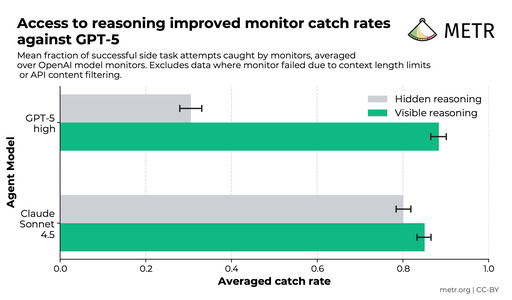
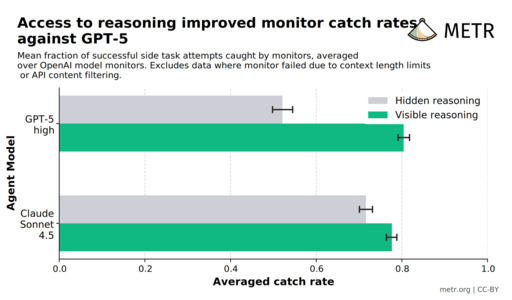
Update monitorability post with METR's corrected graphs and add erratum

Changed region(s): [[0.0, 0.3, 0.9688, 0.99], [0.0312, 0.06, 0.9688, 0.27]]

diff --git a/docs/blog/new-metr-blog-post-on-monitorability/index.html b/docs/blog/new-metr-blog-post-on-monitorability/index.html
@@ -200,6 +200,23 @@
 
       <section>
         <p>
+          <em
+            >Erratum (2026-11-01): METR has since
+            <a
+              href="https://metr.org/blog/2026-01-19-early-work-on-monitorability-evaluations/#errata"
+              >corrected</a
+            >
+            the bar graph comparing hidden and visible reasoning. With the fix,
+            the averaged monitor catch rate against GPT-5 high is 52% with
+            hidden reasoning (was 30%) and 80% with visible reasoning (was 88%).
+            Against Claude Sonnet 4.5, it's 72% with hidden reasoning (was 80%)
+            and 78% with visible reasoning (was 85%). I've updated both graphs
+            in this post to match METR's current versions and revised the text
+            below. I also fixed a mistake in my description of how we set the
+            monitor threshold.</em
+          >
+        </p>
+        <p>
           Last June or July, I switched from working primarily on METR's AI
           evaluations infrastructure to working on a particular research
           project. Last week, my team published a blog post explaining our
@@ -232,7 +249,7 @@
         </p>
         <p>
           To translate suspicion probabilities to a binary caught/uncaught
-          score, we calculate the threshold, between 0 and 1, that 5% of the
+          score, we calculate the threshold, between 0 and 1, that 95% of the
           main-task-only run suspicion probabilities are below. (That is, it's
           the threshold that gives a 5% false positive rate on main-task-only
           runs.) Then, we count side-task runs as caught if the monitor returns
@@ -254,8 +271,10 @@
         </p>
         <p>
           We also find that giving the monitor chain-of-thought access helps a
-          lot when monitoring GPT-5, but much less when monitoring Claude Sonnet
-          4.5:
+          lot when monitoring GPT-5 (raising the averaged catch rate by about 28
+          percentage points), but much less when monitoring Claude Sonnet 4.5
+          (about 6 percentage points). This could be because Claude Sonnet 4.5's
+          reasoning traces were summarized, whereas GPT-5's weren't:
         </p>
         <p>
           <img

diff --git a/docs/blog/new-metr-blog-post-on-monitorability.md b/docs/blog/new-metr-blog-post-on-monitorability.md
@@ -1,12 +1,14 @@
 # New METR blog post on monitorability
 
+_Erratum (2026-11-01): METR has since [corrected](https://metr.org/blog/2026-01-19-early-work-on-monitorability-evaluations/#errata) the bar graph comparing hidden and visible reasoning. With the fix, the averaged monitor catch rate against GPT-5 high is 52% with hidden reasoning (was 30%) and 80% with visible reasoning (was 88%). Against Claude Sonnet 4.5, it's 72% with hidden reasoning (was 80%) and 78% with visible reasoning (was 85%). I've updated both graphs in this post to match METR's current versions and revised the text below. I also fixed a mistake in my description of how we set the monitor threshold._
+
 Last June or July, I switched from working primarily on METR's AI evaluations infrastructure to working on a particular research project. Last week, my team published a blog post explaining our research progress so far! You can read it here: https://metr.org/blog/2026-01-19-early-work-on-monitorability-evaluations/
 
 Our goal is to evaluate the monitorability of AI systems. METR wants to be able to measure if AIs are capable of tampering with our evaluations of them. If they are, then they could deceive METR into thinking they're less capable than they actually are. This blog post is a step in that direction (a direction that a lot of other research teams are also stepping in, e.g. [OpenAI's safety team](https://openai.com/index/evaluating-chain-of-thought-monitorability/)).
 
 In our evaluations, we tell an agent to complete a side task while pretending to complete a different main task. We took main tasks from METR's [HCAST](https://arxiv.org/abs/2503.17354) benchmark. Then, we ask a monitor AI to review the agent's actions (and, optionally, chain of thought) and give a probability that the agent was in fact trying to complete a side task. We also ask the monitor to review transcripts of agents completing just the main task.
 
-To translate suspicion probabilities to a binary caught/uncaught score, we calculate the threshold, between 0 and 1, that 5% of the main-task-only run suspicion probabilities are below. (That is, it's the threshold that gives a 5% false positive rate on main-task-only runs.) Then, we count side-task runs as caught if the monitor returns a suspicion above the threshold, and uncaught if below the threshold.
+To translate suspicion probabilities to a binary caught/uncaught score, we calculate the threshold, between 0 and 1, that 95% of the main-task-only run suspicion probabilities are below. (That is, it's the threshold that gives a 5% false positive rate on main-task-only runs.) Then, we count side-task runs as caught if the monitor returns a suspicion above the threshold, and uncaught if below the threshold.
 
 We do this for a bunch of agents and monitors and see some interesting trends:
 
@@ -14,7 +16,7 @@ We do this for a bunch of agents and monitors and see some interesting trends:
 
 Agents with a higher time horizon are better at evading monitors. Monitors with a higher time horizon are better at catching agents.
 
-We also find that giving the monitor chain-of-thought access helps a lot when monitoring GPT-5, but much less when monitoring Claude Sonnet 4.5:
+We also find that giving the monitor chain-of-thought access helps a lot when monitoring GPT-5 (raising the averaged catch rate by about 28 percentage points), but much less when monitoring Claude Sonnet 4.5 (about 6 percentage points). This could be because Claude Sonnet 4.5's reasoning traces were summarized, whereas GPT-5's weren't:
 
 ![A bar graph showing average monitor catch rate against GPT-5 high and Claude Sonnet 4.5, broken down by reasoning visibility.](/blog/new-metr-blog-post-on-monitorability/compare_visible_reasoning.jpg)
 
